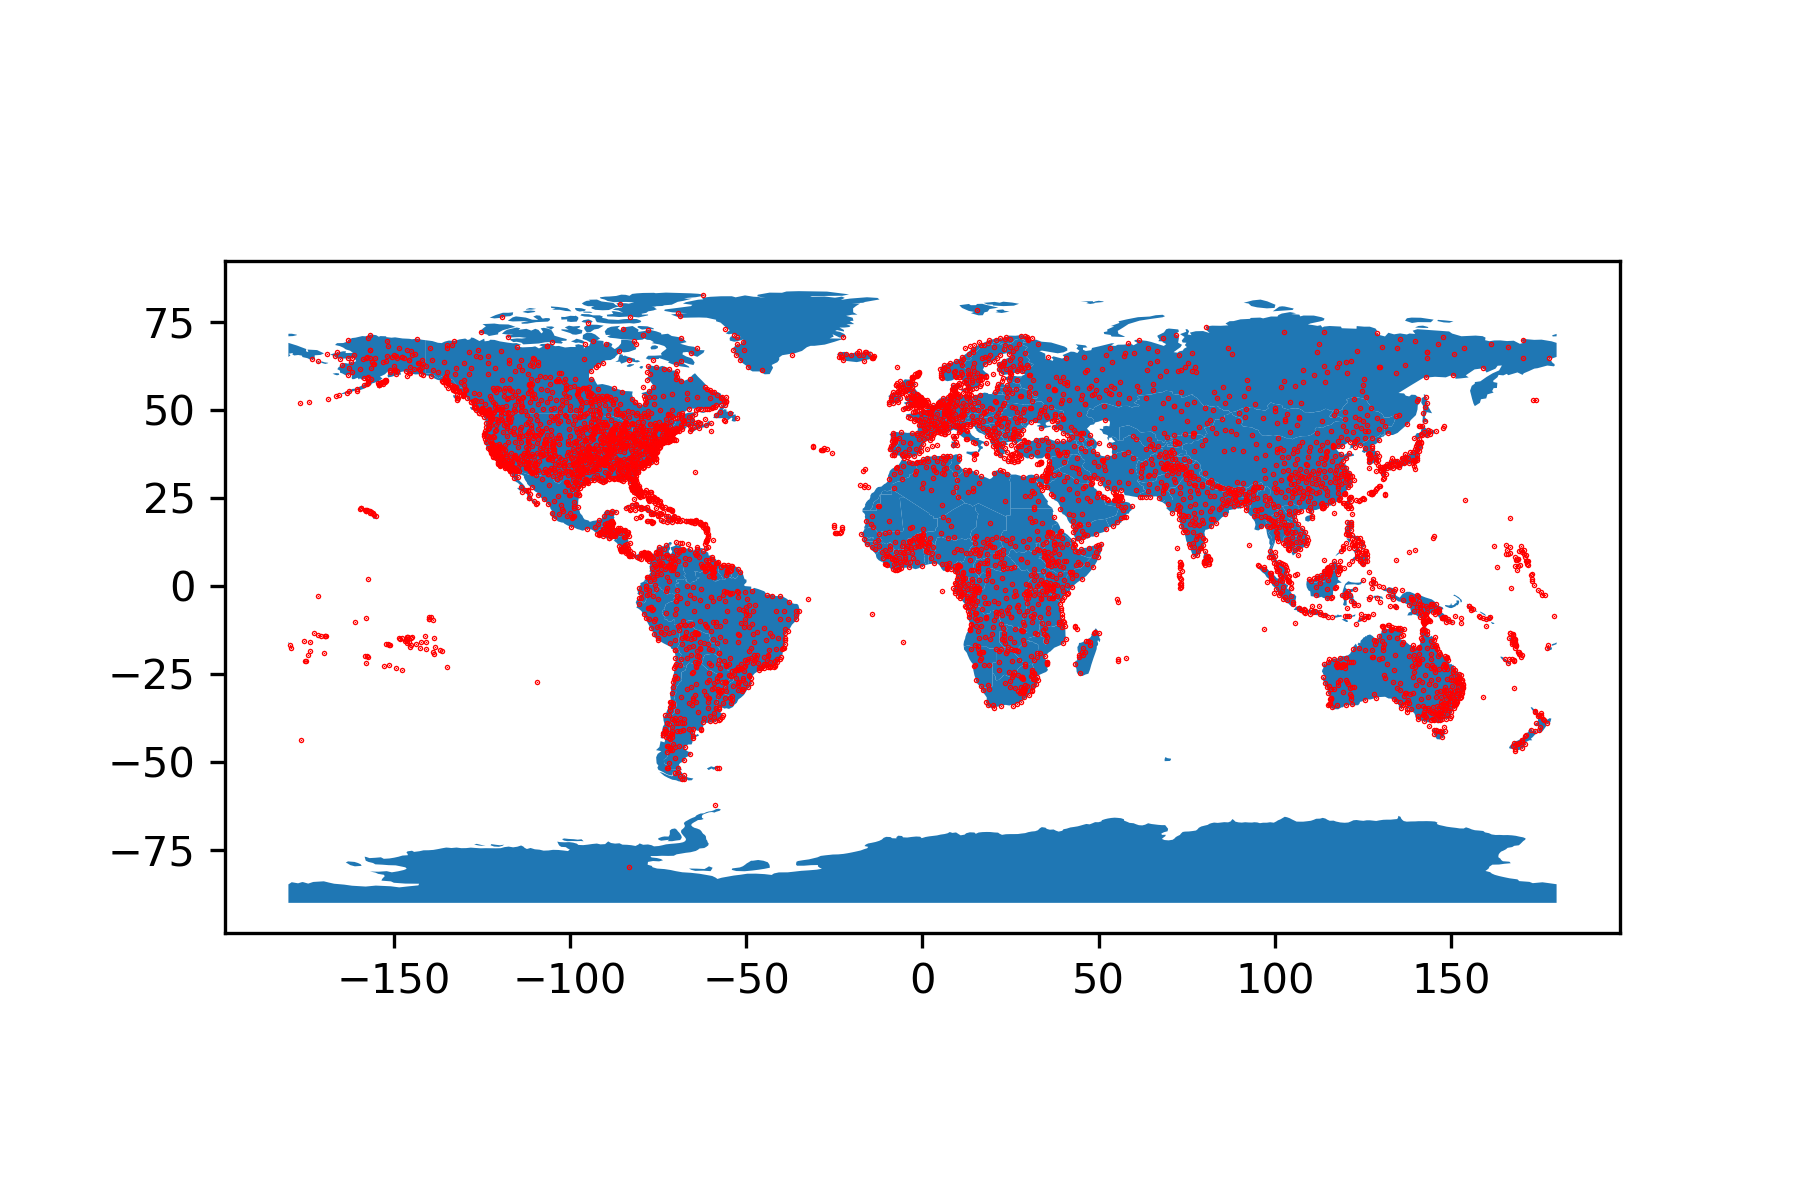
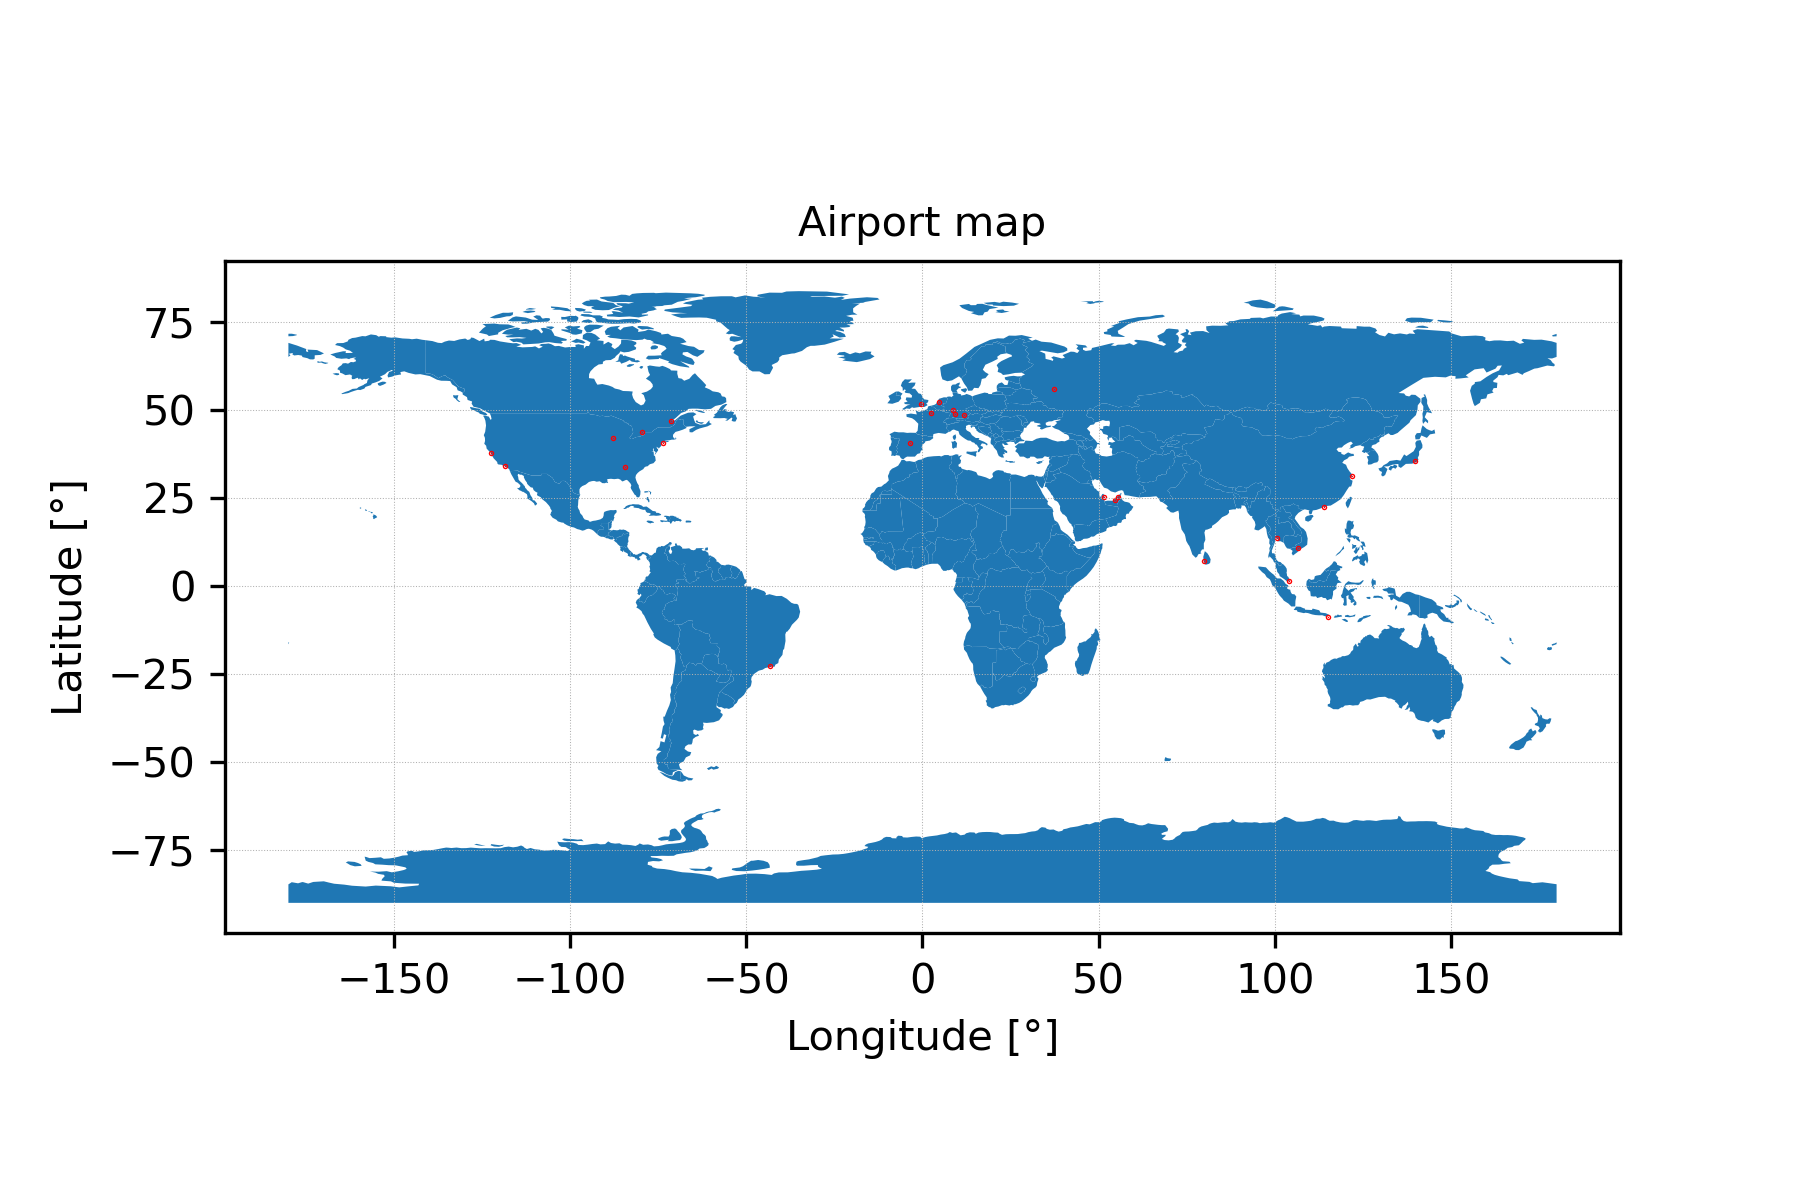
minor changes to plot_airports_world_map_interactive() in order to make plot a little bit prettier, also updated the airport_world_map.png with the new features

diff --git a/code/airport_world_map.py b/code/airport_world_map.py
@@ -60,6 +60,10 @@ class Visualization():
         # ax = world[world.continent == 'South America'].plot(color='white', edgecolor='black')
         ax = world.plot()
         gdf.plot(ax=ax, color='red', markersize=.1)
+        plt.title("Airport map",fontsize=10)
+        plt.xlabel("Longitude [°]")
+        plt.ylabel("Latitude [°]")
+        plt.grid(True,ls='dotted',lw=0.25)
         fig = plt.gcf()
         plt.show()
         
@@ -115,12 +119,12 @@ if __name__ == "__main__":
 
     # x.plot_airports_world_map(airports=[],
     #                           savefig=True)
-    # x.plot_airports_world_map(airports=airport_list_02,
-    #                           savefig=True)
+    x.plot_airports_world_map(airports=airport_list_02,
+                              savefig=True)
     # x.plot_airports_world_map_interactive(airports=[],
     #                                        savefig=True)
-    x.plot_airports_world_map_interactive(airports=airport_list_02,
-                                           savefig=True)
+    # x.plot_airports_world_map_interactive(airports=airport_list_02,
+    #                                        savefig=True)
     # x.plot_airports_world_map_interactive(airports=['ATL','SIN','FRA','GIG','LAX','AUH','AMS','DXB','HKG','HND','LHR','JFK','SFO','CDG','SVO','SGN','BKK','DPS',
     #                                                 'ORD','MAD','CMB','PVG','YYZ','YQB','STR','MUC','DOH'],
     #                                       savefig=True)
